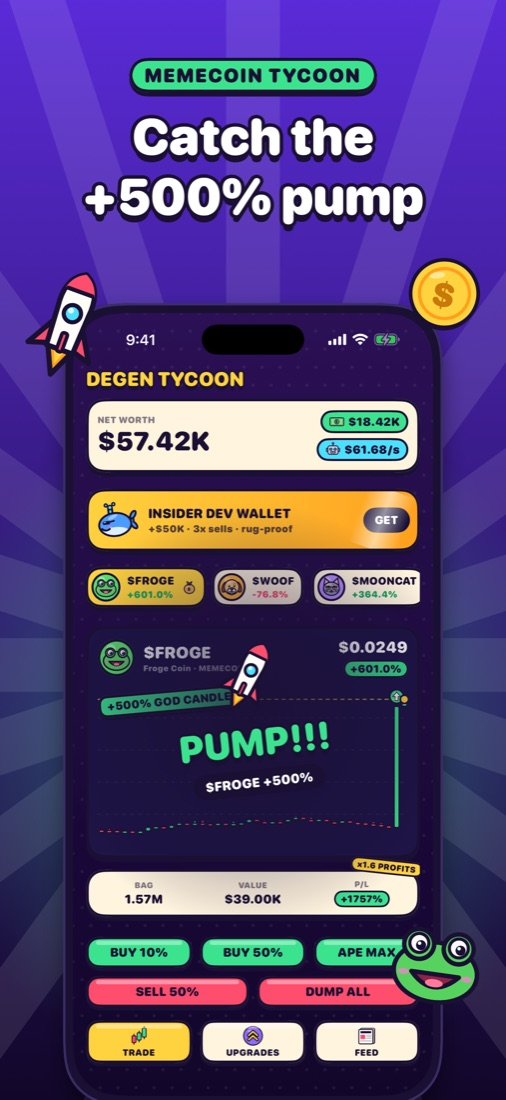
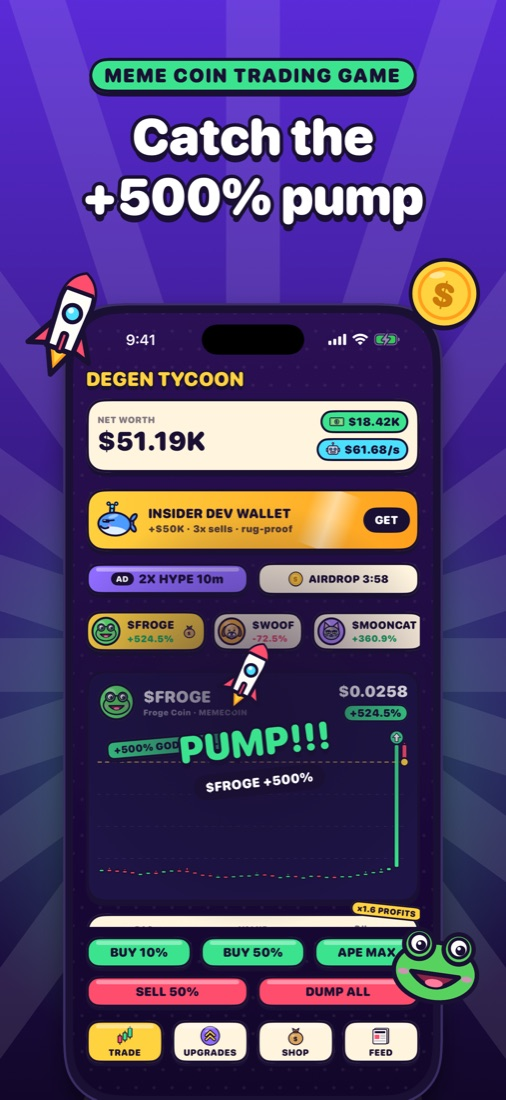
Degen Tycoon: disclose AdMob in privacy policy, ads/IAP support answers, new name

diff --git a/degentycoon/privacy.html b/degentycoon/privacy.html
@@ -22,24 +22,29 @@
 <h1>Privacy Policy</h1>
 <p class="muted">Effective October 9, 2026</p>
 
-<div class="card"><strong>The short version:</strong> Degen Tycoon collects no data. There are no accounts, no ads, no analytics and no tracking. Your game is saved only on your device.</div>
+<div class="card"><strong>The short version:</strong> Degen Tycoon has no accounts, and the developer doesn’t collect your name, email or location. Your game is saved only on your device. The free version shows ads from Google AdMob, which may use device identifiers and approximate location (from your IP address) to serve and measure ads. Buying No Ads (or the Insider Dev Wallet) removes banner and pop-up ads.</div>
 
 <h2>What the game stores</h2>
 <ul>
-  <li><strong>Game progress</strong> (virtual cash, coin holdings, upgrades, the market chart and the event feed) is saved on your device using iOS's standard app storage. It never leaves your device and the developer cannot access it.</li>
+  <li><strong>Game progress</strong> (virtual cash, coin holdings, upgrades, streaks, the market chart and the event feed) is saved on your device using iOS’s standard app storage. It never leaves your device and the developer cannot access it.</li>
 </ul>
 
-<h2>Purchases</h2>
-<p>The optional Insider Dev Wallet is processed entirely by Apple. Degen Tycoon never sees your payment information; it only receives confirmation from Apple that you own the item so it can unlock it. All money in the game is virtual, has no real-world value and cannot be withdrawn.</p>
+<h2>Advertising (Google AdMob)</h2>
+<p>The free version shows a small banner, occasional full-screen ads after you sell (at most one every three minutes, and never in your first sessions), and optional rewarded video ads you choose to watch for in-game bonuses. These are provided by Google AdMob. To serve, limit the frequency of and measure ads, Google may collect information such as your device’s advertising identifier, IP address (used to estimate your approximate location), device and app information, crash and performance diagnostics, and your ad interactions. This is governed by <a href="https://policies.google.com/privacy">Google’s Privacy Policy</a> and <a href="https://policies.google.com/technologies/partner-sites">how Google uses information from apps that use its services</a>.</p>
+<p>Where required (for example in the EEA, UK and some US states), Degen Tycoon asks for your consent using Google’s consent tool before ads are shown. You can change your choice at any time from <strong>Shop → Ad privacy choices</strong>. You can also limit ad tracking in iOS Settings.</p>
+<p>Degen Tycoon does not use the App Tracking Transparency prompt and does not track you across other companies’ apps and websites.</p>
 
-<h2>No advertising, analytics or tracking</h2>
-<p>Degen Tycoon contains no third-party SDKs. It does not show ads, does not use analytics or crash-reporting services, and does not track you across other companies' apps or websites.</p>
+<h2>Notifications</h2>
+<p>If you allow them, Degen Tycoon schedules local reminders on your device (for example when your bots have farmed cash or your daily bag is ready). Nothing is sent to a server.</p>
+
+<h2>Purchases</h2>
+<p>In-app purchases are processed entirely by Apple. Degen Tycoon never sees your payment information; it only receives confirmation of which items you own so it can unlock them. All money in the game is virtual, has no real-world value and cannot be withdrawn.</p>
 
 <h2>Children</h2>
 <p>Degen Tycoon is not directed at children under 13, and the developer does not knowingly collect personal information from anyone, including children.</p>
 
 <h2>Deleting your data</h2>
-<p>Deleting the app removes your saved game from your device.</p>
+<p>Deleting the app removes your saved game from your device. For advertising data, see Google’s controls at <a href="https://myadcenter.google.com">myadcenter.google.com</a>.</p>
 
 <h2>Changes</h2>
 <p>If this policy changes, the updated version will be posted on this page with a new effective date.</p>

diff --git a/degentycoon/support.html b/degentycoon/support.html
@@ -28,6 +28,12 @@
 <h2>I lost my coins in a rug pull!</h2>
 <p>That's the game, degen. Rug pulls wipe any bag you're holding in that coin. Upgrade the <strong>Rug Detector</strong> for a chance to escape, or own the Insider Dev Wallet to dodge every rug at the pre-crash price.</p>
 
+<h2>How do I remove ads?</h2>
+<p>Buy <strong>No Ads</strong> in the Shop tab. It removes the banner and pop-up ads, and every ad reward (2x Hype, airdrops, rug insurance) becomes free. The Insider Dev Wallet includes No Ads too. Rewarded videos are always optional.</p>
+
+<h2>A cash bag didn’t arrive</h2>
+<p>Close and reopen the app; any purchase that was interrupted is delivered on launch. If it still hasn’t arrived, email us with the date of the purchase.</p>
+
 <h2>Does the game earn money while it's closed?</h2>
 <p>Yes. Your Copy-Trade Bot earns at half speed for up to 8 hours while the app is closed.</p>
 

diff --git a/degentycoon/index.html b/degentycoon/index.html
@@ -1,7 +1,7 @@
 <!doctype html>
 <html lang="en"><head><meta charset="utf-8"><meta name="viewport" content="width=device-width,initial-scale=1">
 <title>Degen Tycoon</title><meta name="description" content="An unhinged meme coin and stock day-trading idle tycoon for iPhone.">
-<meta property="og:title" content="Degen Tycoon: Meme Coin Sim"><meta property="og:image" content="https://bchandlerrr.github.io/degentycoon/img/1-pump.jpg">
+<meta property="og:title" content="Degen Tycoon: Stock Market Sim"><meta property="og:image" content="https://bchandlerrr.github.io/degentycoon/img/1-pump.jpg">
 <style>
   :root { --bg:#1a0b3d; --bg2:#2b1055; --paper:#fff4de; --ink:#1a1033; --text:#f4efff; --muted:#b9add6; --gold:#ffd23f; --green:#3be38e; --line:#3a2a6b; }
   :root[data-theme="light"] { --bg:#f3eefc; --bg2:#e6dcfa; --text:#1a1033; --muted:#5b4f78; --line:#d6cbef; }

diff --git a/index.html b/index.html
@@ -110,8 +110,8 @@
       <h2>Products</h2>
 
       <div class="product">
-        <h3>Degen Tycoon: Meme Coin Sim<span class="tag">iOS Game</span></h3>
-        <p>An unhinged meme coin and stock day-trading idle tycoon. Ride +500% pumps, dump at the top, dodge rug pulls and build an empire of copy-trade bots. Fictional coins, virtual cash.</p>
+        <h3>Degen Tycoon: Stock Market Sim<span class="tag">iOS Game</span></h3>
+        <p>An unhinged stock market simulator and meme coin trading game. Ride +500% pumps, dump at the top, dodge rug pulls and build an empire of copy-trade bots. Fictional coins, virtual cash.</p>
         <div class="meta">
           App Store listing coming soon &middot;
           <a href="https://bchandlerrr.github.io/degentycoon/">Website</a> &middot;
